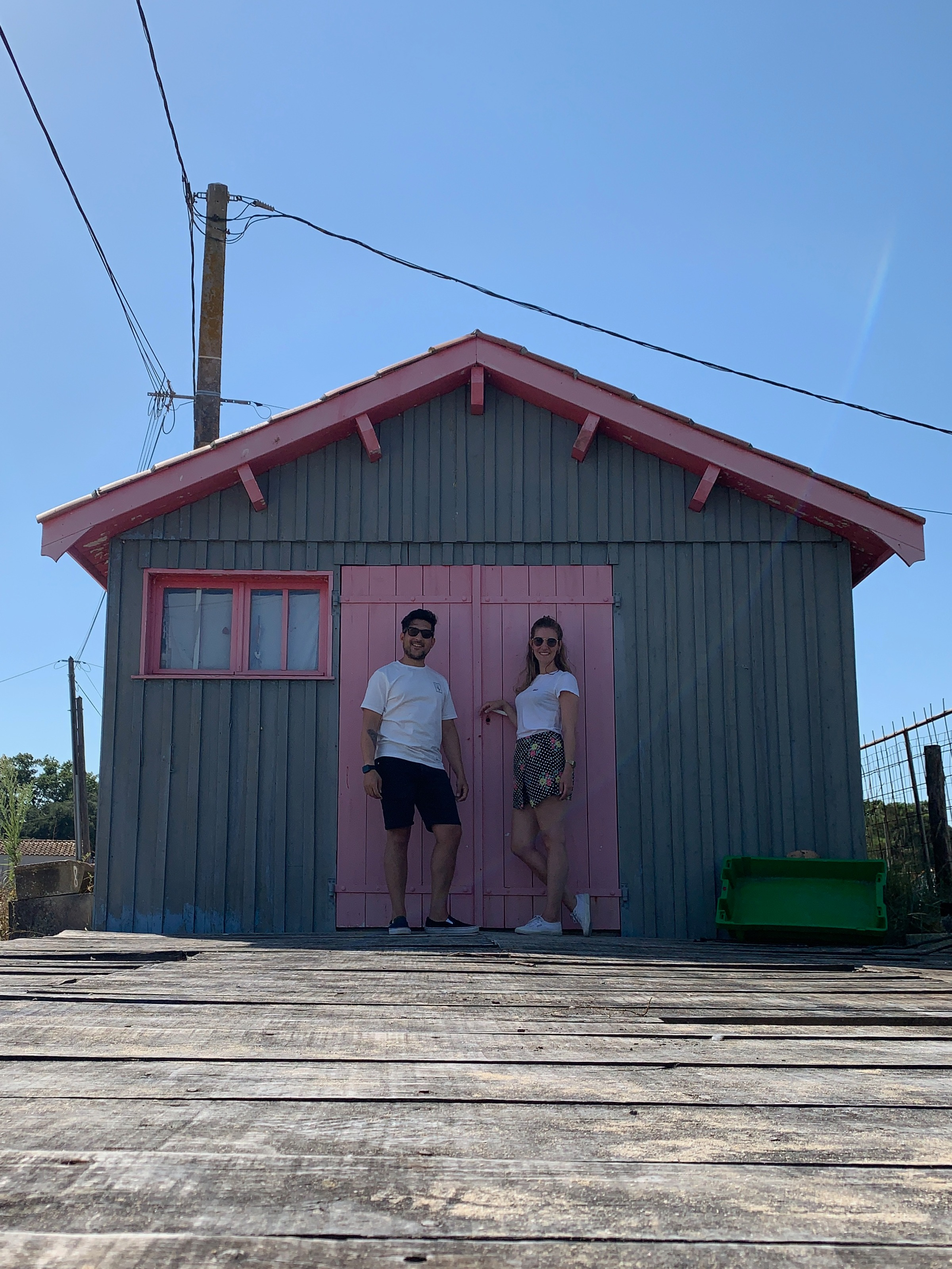
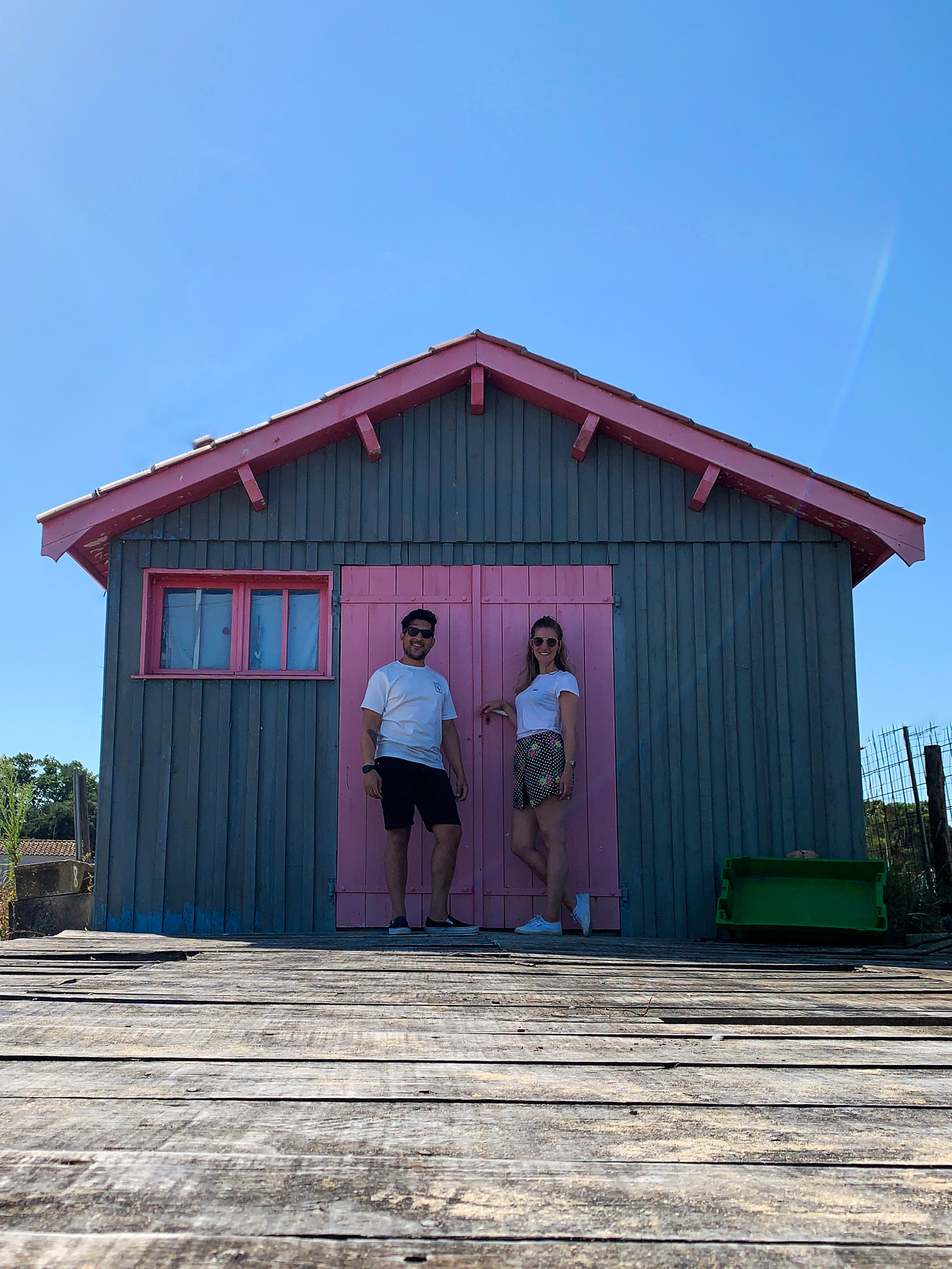
* updated the bg image to final
* changed the content

* changed footer and nav

diff --git a/src/components/Header.js b/src/components/Header.js
@@ -8,28 +8,27 @@ const Header = props => (
     </div>
     <div className="content">
       <div className="inner">
-        <h1>J&K Wedding</h1>
+        <h1>Save the Date</h1>
+        <p>We are getting married!</p>
         <p>
-          We are getting married!
-          <br />
-          Save the date
-          <br />
-          <time datetime="2021-11-13">13•11•2021</time>
+          <b><time datetime="2021-11-13">13•November•2021</time></b>
+          <div>Amsterdam</div>
         </p>
+        <p></p>
       </div>
     </div>
     <nav>
       <ul>
-        <li>
+        {/* <li>
           <button
             onClick={() => {
               props.onOpenArticle('intro')
             }}
           >
-            Intro
+            Joëlle & Kemal
           </button>
-        </li>
-        <li>
+        </li> */}
+        {/* <li>
           <button
             onClick={() => {
               props.onOpenArticle('work')
@@ -46,14 +45,14 @@ const Header = props => (
           >
             About
           </button>
-        </li>
+        </li> */}
         <li>
           <button
             onClick={() => {
               props.onOpenArticle('contact')
             }}
           >
-            Contact
+            How can we reach you?
           </button>
         </li>
       </ul>

diff --git a/src/components/layout.js b/src/components/layout.js
@@ -41,8 +41,8 @@ const Layout = ({ children, location }) => {
           <Helmet
             title={data.site.siteMetadata.title}
             meta={[
-              { name: 'description', content: 'Sample' },
-              { name: 'keywords', content: 'sample, something' },
+              { name: 'description', content: 'Joëlle & Kemal Wedding | 13•11•2021' },
+              { name: 'keywords', content: 'joelle-kemal, save-the-date, wedding' },
             ]}
           >
             <html lang="en" />

diff --git a/src/components/Footer.js b/src/components/Footer.js
@@ -3,7 +3,7 @@ import PropTypes from 'prop-types'
 
 const Footer = (props) => (
     <footer id="footer" style={props.timeout ? {display: 'none'} : {}}>
-        <p className="copyright">&copy; J&K Wedding | 13•11•2021</p>
+        <p className="copyright">Joëlle ♡ Kemal | 13•11•2021</p>
     </footer>
 )
 

diff --git a/src/assets/scss/layout/_footer.scss b/src/assets/scss/layout/_footer.scss
@@ -22,7 +22,7 @@
 
   .copyright {
     letter-spacing: _font(letter-spacing);
-    font-size: 0.6rem;
+    font-size: 0.75rem;
     opacity: 0.75;
     margin-bottom: 0;
     text-transform: uppercase;
